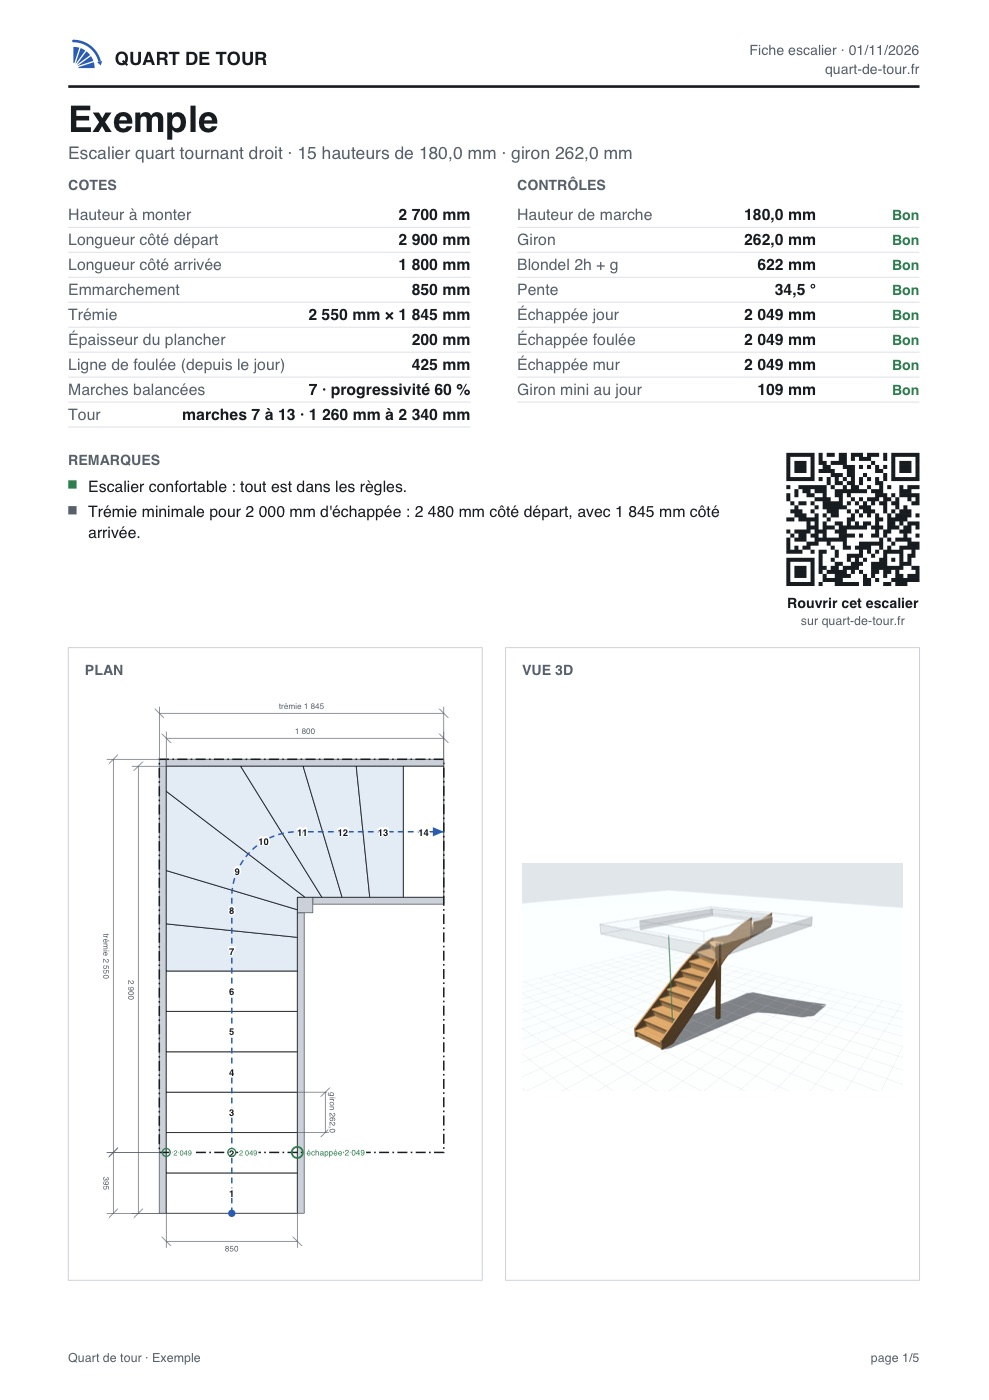
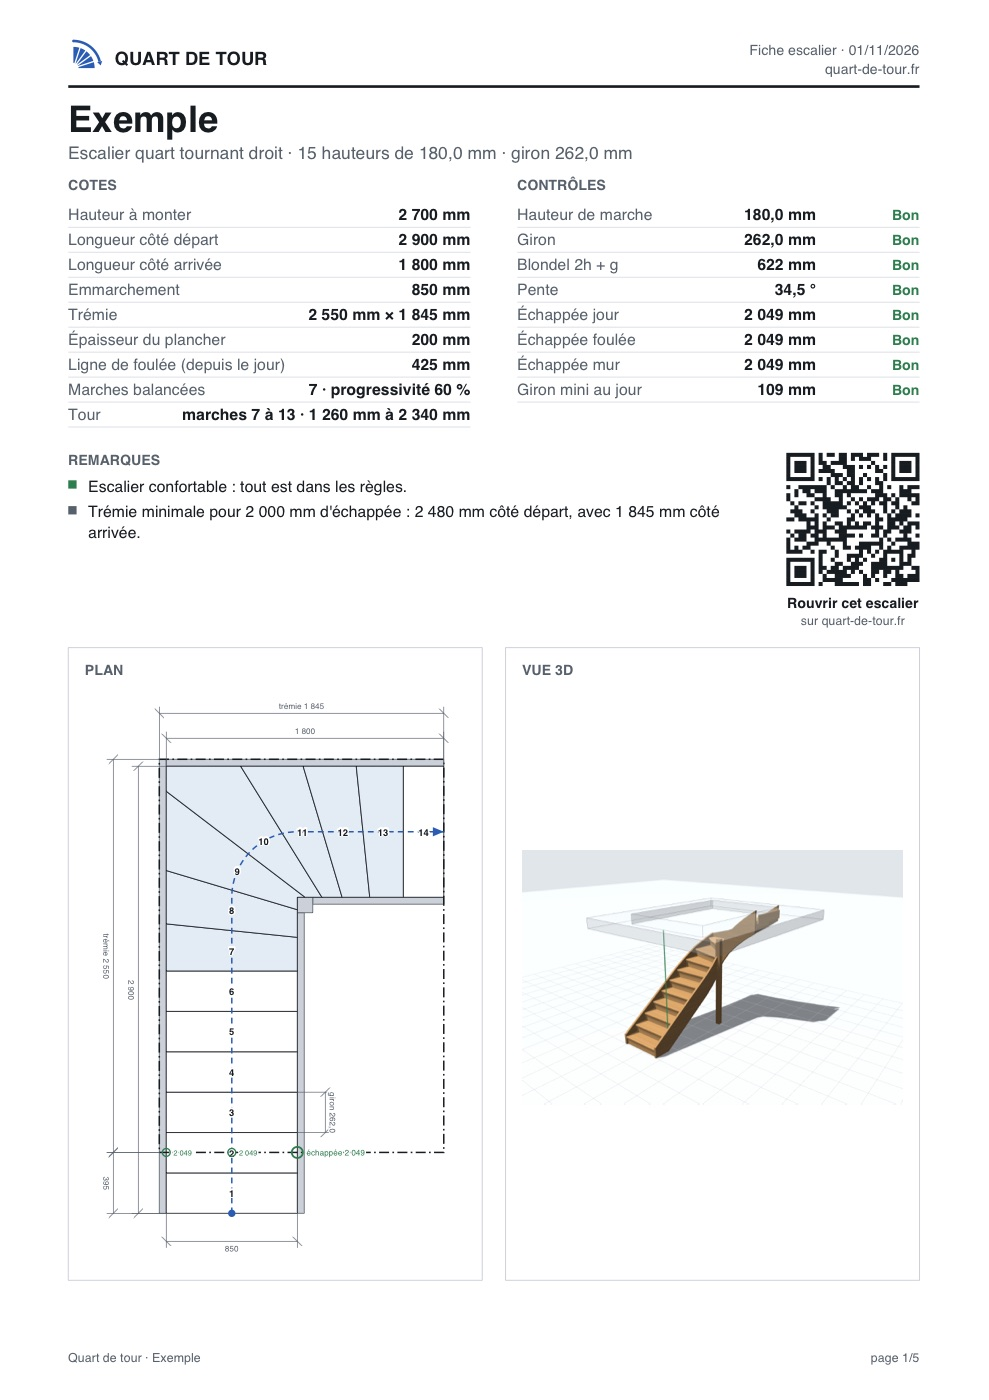
PDF indépendant de la vue à l'écran, pas de bouton Devis sur téléphone
- Scene3D.snapshot : toujours la même image, en perspective, à taille fixe
  et en thème clair ; la caméra et la taille à l'écran sont rétablies.
- Fiche : le téléchargement attend que la 3D soit chargée.
- Téléphone : le bouton Devis de l'en-tête est masqué, l'onglet reste.
- Capture de la fiche de la page publique refaite.

Changed region(s): [[0.5157, 0.5836, 0.91, 0.7679]]

diff --git a/src/ui/scene3d.ts b/src/ui/scene3d.ts
@@ -200,14 +200,17 @@ export class Scene3D {
     else this.render();
   }
 
-  /** Capture JPEG de la vue, rendue dans le thème clair pour l'impression ; le thème est rétabli aussitôt. */
+  /** Image pour les PDF, rendue dans le thème clair : toujours le même cadre en perspective, quels que soient la vue à
+      l'écran et son point de vue, rétablis aussitôt. */
   snapshot(): { data: Uint8Array; w: number; h: number } | null {
     if (!this.last) return null;
     const root = document.documentElement,
-      prev = root.getAttribute("data-theme");
-    // Vue masquée (téléphone, autre onglet) : on rend à une taille fixe le temps de la capture.
-    const hidden = !this.host.clientWidth || !this.host.clientHeight;
-    if (hidden) this.setViewSize(960, 640);
+      prev = root.getAttribute("data-theme"),
+      aspect = this.camera.aspect,
+      position = this.camera.position.clone(),
+      target = this.controls.target.clone();
+    this.setViewSize(960, 640);
+    this.viewPerspective();
     root.setAttribute("data-theme", "light");
     this.applyTheme();
     const url = this.renderer.domElement.toDataURL("image/jpeg", 0.9);
@@ -215,7 +218,12 @@ export class Scene3D {
     if (prev === null) root.removeAttribute("data-theme");
     else root.setAttribute("data-theme", prev);
     this.applyTheme();
-    if (hidden) this.setViewSize(this.host.clientWidth || 300, this.host.clientHeight || 150);
+    this.camera.position.copy(position);
+    this.controls.target.copy(target);
+    this.controls.update();
+    this.camera.aspect = aspect;
+    this.camera.updateProjectionMatrix();
+    this.resize();
     const bin = atob(url.slice(url.indexOf(",") + 1));
     const data = Uint8Array.from(bin, (c) => c.charCodeAt(0));
     return w && h ? { data, w, h } : null;

diff --git a/src/main.ts b/src/main.ts
@@ -487,7 +487,7 @@ phone.addEventListener("change", () => {
   if (planCote && current?.ok) drawPlan(current.stair);
 });
 
-byId("ficheDl").addEventListener("click", () => {
+byId("ficheDl").addEventListener("click", async () => {
   if (!current?.ok) return;
   const base = fileBase(project?.nom ?? NOM_PAR_DEFAUT);
   const kind = byId<HTMLSelectElement>("ficheFmt").value;
@@ -496,6 +496,9 @@ byId("ficheDl").addEventListener("click", () => {
   if (kind === "csv") csv(treadsCSV(current.stair), "marches");
   else if (kind === "debit") csv(cutListCSV(cnc ?? buildCNC(current.stair), current.stair), "liste de débit");
   else {
+    // La fiche porte toujours la 3D : si elle se charge encore, on l'attend.
+    await sceneReady;
+    if (!current?.ok) return;
     const vue3d = scene?.snapshot() ?? undefined;
     const date = new Date().toLocaleDateString("fr-FR");
     const nom = project?.nom ?? NOM_PAR_DEFAUT;
@@ -555,7 +558,7 @@ void (async () => {
 })();
 // Three.js est chargé à part : le calcul et le plan s'affichent sans attendre la 3D.
 // Le cadrage initial attend les polices, qui changent la largeur de la colonne de réglages.
-Promise.all([import("./ui/scene3d"), document.fonts.ready])
+const sceneReady = Promise.all([import("./ui/scene3d"), document.fonts.ready])
   .then(([{ Scene3D }]) => {
     scene = new Scene3D(byId("scene"), byId("err3d"));
     if (current) render(current);

diff --git a/src/styles/main.css b/src/styles/main.css
@@ -2474,6 +2474,8 @@ body.avance .auto {
   .main > :not(.views) {
     animation: fondu 0.2s ease-out;
   }
+  /* Le devis a son onglet : pas de bouton dans l'en-tête. */
+  #devisBtn,
   body:not([data-tab="reglages"]) .side,
   body[data-tab="reglages"] .main,
   body[data-tab="fiche"] .views,

diff --git a/CLAUDE.md b/CLAUDE.md
@@ -19,11 +19,11 @@ Outil d'escaliers pour un ébéniste et d'autres menuisiers, appelé Limon jusqu
 - En-tête : logo (retour à l'accueil), « Mes escaliers » avec l'état de l'escalier et son nom, état de l'enregistrement, « Nouvel escalier », bouton du compte (« Ouvrir l'outil », « Me connecter » après une déconnexion, puis initiale). Accueil (`Home`, `src/ui/home.ts`), page entière à la place de tout dialogue : onglets Escaliers (création, cartes avec vignette du plan, rangées En cours et Terminés, copies en fichier, installation), Mon atelier, Mon compte ; montré quand aucun escalier n'est ouvert, par le logo, « Mes escaliers » (onglet Escaliers) ou le bouton du compte (onglet Mon compte). Un nouvel escalier part toujours en pas à pas.
 - État de l'escalier (`etat` et `finiLe` du `Project`, `withEtat`) : brouillon à la création, à la copie et pour les escaliers d'avant l'état ; « Escalier terminé » dans le bandeau au-dessus de la fiche (masqué en pas à pas). Un réglage changé sur un escalier terminé le repasse en brouillon. La fiche PDF d'un brouillon porte « brouillon » en tête, un filigrane en lettres creuses sur chaque page, et « (brouillon) » dans le nom du fichier.
 - Réglages avancés : préférence de l'appareil (`limon-avance`), interrupteur dans l'onglet Mon compte ; sans elle, les éléments `[data-adv]` sont masqués (hauteurs et foulée à la main, marches balancées, progressivité, nez, assemblage CNC, copie des DXF, nouvel escalier complet) et la section Marches montre le choix du calcul.
-- Vue (`#vue`, `showVue` dans `src/main.ts`) : un seul panneau, le plan ou la 3D (`data-vue`), avec un bouton Plan / 3D et les deux points de vue de chacune (Dessus / Côté pour le plan, Perspective / Dessus pour la 3D). Celle montrée à l'ouverture : préférence de l'appareil (`limon-vue`, `3d` par défaut ou `plan`), dans l'onglet Mon compte. La 3D masquée reste dessinée pour les captures du PDF.
+- Vue (`#vue`, `showVue` dans `src/main.ts`) : un seul panneau, le plan ou la 3D (`data-vue`), avec un bouton Plan / 3D et les deux points de vue de chacune (Dessus / Côté pour le plan, Perspective / Dessus pour la 3D). Celle montrée à l'ouverture : préférence de l'appareil (`limon-vue`, `3d` par défaut ou `plan`), dans l'onglet Mon compte. La fiche et le devis PDF n'en dépendent pas : ils portent toujours le plan et la vue 3D.
 - Réglages en six `<details>` (Forme, Dimensions, Trémie, Marches, Bois, Garde-corps ; ordre et titres dans `SECTIONS`, `src/core/summary.ts`), avec un résumé quand ils sont repliés. Mode guidé (`Steps`, `src/ui/steps.ts`) : une section à la fois, `mode` et `etape` enregistrés dans le projet, fiche et CNC masquées jusqu'à « Voir mon escalier », croquis de la cote en cours (`src/ui/sketch.ts`).
 - Annuler, rétablir (`History`, `src/core/history.ts` ; `Undo`, `src/ui/undo.ts`) : copies complètes des réglages, une frappe continue dans un même champ (nombre ou curseur) = une étape, une correction d'un clic ou « Revenir à l'exemple » = une étape. En mémoire seulement, vidé à l'ouverture d'un escalier. Flèches à côté de l'état de l'enregistrement (sur téléphone, pastille au-dessus des onglets dès le premier changement), Ctrl/Cmd+Z, Ctrl/Cmd+Maj+Z, Ctrl+Y ; le texte libre (nom de l'escalier) et l'accueil gardent leur Ctrl+Z. `src/main.ts` passe par `setParams` pour tout réglage changé d'un coup.
 - L'export CNC n'est calculé (`buildCNC`) que lorsque sa section est ouverte ; il contient les réglages d'assemblage (hauteurs de limon, plateaux disponibles, encastrement, jeu).
-- Téléphone (écran ≤ 920 px) : barre d'onglets en bas (`Tabs`, `src/ui/tabs.ts`), un panneau à la fois choisi par `body[data-tab]` (réglages, vue, fiche avec contrôles, notes et CNC sans les boutons « Copier »). La vue prend la hauteur sous l'en-tête (`--hdr`). Pastille sur « Fiche » quand une note est `warn` ou `bad`. La capture 3D du PDF se rend à taille fixe quand la vue est masquée.
+- Téléphone (écran ≤ 920 px) : barre d'onglets en bas (`Tabs`, `src/ui/tabs.ts`), un panneau à la fois choisi par `body[data-tab]` (réglages, vue, fiche avec contrôles, notes et CNC sans les boutons « Copier »). La vue prend la hauteur sous l'en-tête (`--hdr`). Pastille sur « Fiche » quand une note est `warn` ou `bad`.
 - Application installable et hors ligne (`startPWA`, `src/ui/pwa.ts`) : `src/sw.js` en JavaScript, complété au build par le greffon `pwa` de `vite.config.ts` (fichiers du build et de `public/`, sans `.map` ni `.woff`, empreinte en nom de cache). Mises à jour silencieuses, sans bandeau : les artisans ne rechargeraient pas. La nouvelle version attend, prend la main quand la page passe en arrière-plan (ou dès le lancement si elle attendait déjà), puis la page se recharge après avoir enregistré la saisie en cours. Bouton « Installer » dans Mes escaliers (`beforeinstallprompt`), aide Partager → écran d'accueil sur iPhone. Le service worker reste à la racine (`/sw.js`, portée `/`, celle des installations d'avant /app/) et sert `app/index.html` à toute adresse sous `/app/`, `index.html` à `/` ; le manifeste garde son `id` et démarre sur `app/`. Un ancien service worker sert encore l'ancien outil à `/` jusqu'à sa mise à jour : c'est pourquoi les renvois des anciennes adresses visent `/` et non `/app/`. Service worker enregistré en production seulement : essai avec `npm run build` puis `npm run start:local`. Le service worker ne touche jamais `/api/`.
 
 ## Serveur, compte et synchronisation
@@ -69,7 +69,7 @@ Outil d'escaliers pour un ébéniste et d'autres menuisiers, appelé Limon jusqu
 ## Fiche PDF (voir `fichePDF` dans `src/pdf/fiche.ts`)
 
 - PDF 1.4 écrit à la main (`PdfDoc`, `src/pdf/pdf.ts`) : Helvetica standard en WinAnsiEncoding, chasses AFM codées en dur, pas de compression. Trois pages A4 : cotes, contrôles (`checks`, partagés avec les tuiles), remarques, plan et vue 3D ; bois, assemblage et fiche des marches ; liste de débit, volume et alertes de fabrication (`src/cnc/cutlist.ts`, partagé avec le panneau CNC). C'est la seule fiche imprimable.
-- Le plan vient de `planShapes` (`src/core/plan-shapes.ts`), commun au SVG de l'écran et au PDF. La vue de côté vient de `sideShapes` (`src/core/side-shapes.ts`, géométrie dans `sideView`) : développé sur la ligne de foulée, plancher coupé aux bords de trémie, échappée de la ligne de foulée cotée à sa place (rappel de la plus faible si elle tombe ailleurs) ; choix « Dessus / Côté » de la vue Plan, page 2 de la fiche. La vue 3D est capturée par `Scene3D.snapshot()` en thème clair.
+- Le plan vient de `planShapes` (`src/core/plan-shapes.ts`), commun au SVG de l'écran et au PDF. La vue de côté vient de `sideShapes` (`src/core/side-shapes.ts`, géométrie dans `sideView`) : développé sur la ligne de foulée, plancher coupé aux bords de trémie, échappée de la ligne de foulée cotée à sa place (rappel de la plus faible si elle tombe ailleurs) ; choix « Dessus / Côté » de la vue Plan, page 2 de la fiche. La vue 3D vient de `Scene3D.snapshot()` : thème clair, taille fixe et cadre en perspective, quels que soient la vue à l'écran et son point de vue.
 
 ## Tests
 
